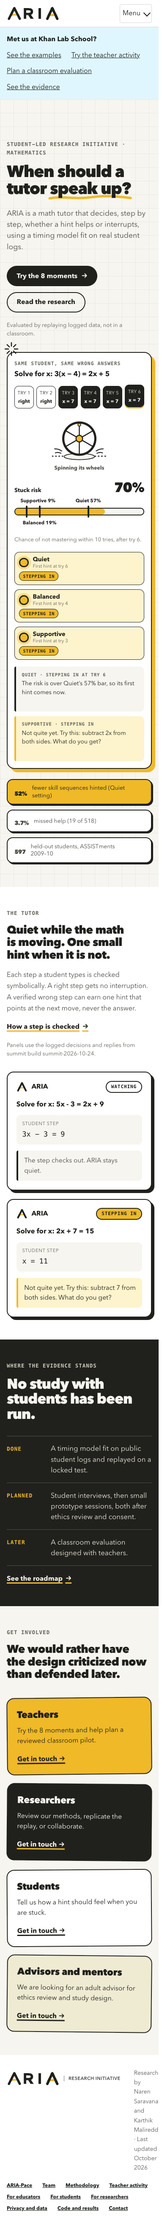
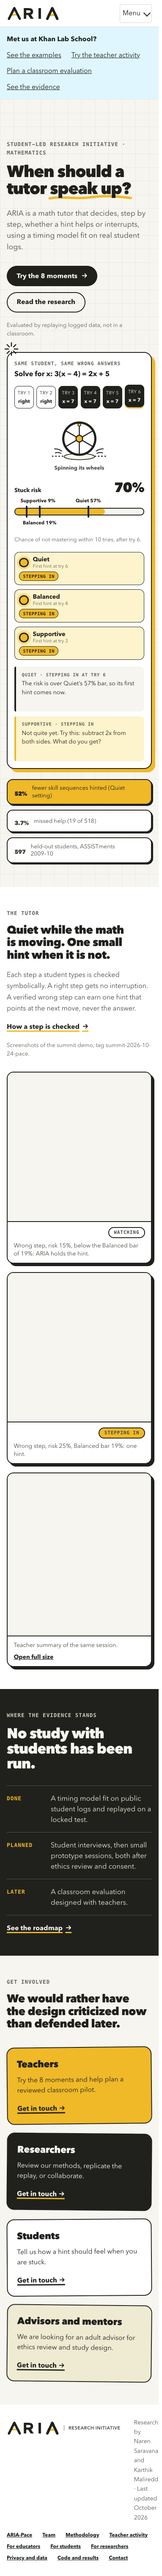
Use 46% for the third wrong step, real demo screenshots on Home, reword neural-model line

diff --git a/src/v2/HomePage.tsx b/src/v2/HomePage.tsx
@@ -1,5 +1,4 @@
 import { SitePage, SummitFollowUp } from "../AriaExperience";
-import { demoBuild, momentById } from "../demoMoments";
 import WheelExplainer from "./WheelExplainer";
 import { CountUp, Reveal } from "./motion";
 import { Doodle, Underline } from "./ui";
@@ -28,8 +27,6 @@ export function JoinCards({ compact = false }: { compact?: boolean }) {
 }
 
 export default function HomePage() {
-  const watching = momentById("M2");
-  const stepping = momentById("M8");
   return (
     <SitePage progress>
       <SummitFollowUp />
@@ -92,35 +89,23 @@ export default function HomePage() {
               <a className="textlink" href="/method">
                 How a step is checked <span aria-hidden="true">→</span>
               </a>
-              <p className="fineprint">Panels use the logged decisions and replies from summit build {demoBuild}.</p>
+              <p className="fineprint">Screenshots of the summit demo, tag summit-2026-10-24-pace.</p>
             </Reveal>
             <Reveal className="product__panels c-8" delay={80}>
-              <article className="panel panel--watch" aria-label="A step where ARIA stays quiet">
-                <header>
-                  <img src="/aria-symbol.svg" width="26" height="26" alt="" />
-                  <b>ARIA</b>
-                  <span className="state state--watch">Watching</span>
-                </header>
-                <p className="panel__problem">{watching.problem}</p>
-                <p className="panel__step">
-                  <small>Student step</small>
-                  {watching.turns[watching.turns.length - 1]}
-                </p>
-                <p className="panel__reply panel__reply--quiet">The step checks out. ARIA stays quiet.</p>
-              </article>
-              <article className="panel panel--step" aria-label="A step where ARIA steps in">
-                <header>
-                  <img src="/aria-symbol.svg" width="26" height="26" alt="" />
-                  <b>ARIA</b>
-                  <span className="state state--step">Stepping in</span>
-                </header>
-                <p className="panel__problem">{stepping.problem}</p>
-                <p className="panel__step">
-                  <small>Student step</small>
-                  {stepping.turns[stepping.turns.length - 1]}
-                </p>
-                <p className="panel__reply">{stepping.reply}</p>
-              </article>
+              <figure className="shot shot--watch">
+                <div className="shot__crop"><img src="/demo/03_watching.png" width={1280} height={1186} loading="lazy" alt="The ARIA demo in the Watching state: a wrong step at 15% risk, below the Balanced bar, so the hint is held." /></div>
+                <figcaption><span className="state state--watch">Watching</span> Wrong step, risk 15%, below the Balanced bar of 19%: ARIA holds the hint.</figcaption>
+              </figure>
+              <figure className="shot shot--step">
+                <div className="shot__crop"><img src="/demo/02_stepping_in.png" width={1280} height={1235} loading="lazy" alt="The ARIA demo in the Stepping in state: after wrong steps and a risk of 25%, the Balanced setting gives a hint." /></div>
+                <figcaption><span className="state state--step">Stepping in</span> Wrong step, risk 25%, Balanced bar 19%: one hint.</figcaption>
+              </figure>
+              <figure className="shot shot--teacher">
+                <div className="shot__crop"><img src="/demo/05_teacher_summary.png" width={1280} height={1484} loading="lazy" alt="The teacher summary tab: a timeline of each turn, where the student got stuck, and the hints given." /></div>
+                <figcaption>
+                  Teacher summary of the same session. <a href="/demo/05_teacher_summary.png">Open full size</a>
+                </figcaption>
+              </figure>
             </Reveal>
           </div>
         </section>

diff --git a/src/hallmark.css b/src/hallmark.css
@@ -1737,7 +1737,7 @@ tbody tr:last-child td {
 }
 
 .methodology-wordmark {
-  font-size: var(--text-lg);
+  font-size: var(--text-md);
   font-weight: 750;
   letter-spacing: -0.04em;
   text-decoration: none;
@@ -1772,15 +1772,15 @@ tbody tr:last-child td {
 }
 
 .methodology-hero h1 {
-  max-width: 12ch;
-  font-size: clamp(3rem, 7vw, 6rem);
+  max-width: 18ch;
+  font-size: clamp(2.1rem, 3.6vw, 3.25rem);
 }
 
 .methodology-hero > p {
   max-width: 62ch;
   margin: 0;
   color: var(--color-ink-2);
-  font-size: var(--text-lg);
+  font-size: var(--text-md);
 }
 
 .methodology-status {
@@ -1811,7 +1811,7 @@ tbody tr:last-child td {
 
 .methodology-status strong {
   margin-block: var(--space-2xl) var(--space-md);
-  font-size: var(--text-xl);
+  font-size: var(--text-lg);
   line-height: 1.2;
 }
 
@@ -1827,14 +1827,14 @@ tbody tr:last-child td {
 .methodology-section > h2,
 .methodology-limitations h2,
 .methodology-next h2 {
-  max-width: 20ch;
-  font-size: clamp(2rem, 4vw, 3.5rem);
+  max-width: 26ch;
+  font-size: clamp(1.55rem, 2.4vw, 2.1rem);
 }
 
 .methodology-section > p:not(.kicker) {
   max-width: 70ch;
   color: var(--color-ink-2);
-  font-size: var(--text-md);
+  font-size: var(--text-base);
 }
 
 .methodology-process {
@@ -1861,7 +1861,7 @@ tbody tr:last-child td {
 
 .methodology-process h3 {
   margin-block-end: var(--space-xs);
-  font-size: var(--text-lg);
+  font-size: var(--text-md);
 }
 
 .methodology-process p {
@@ -1895,14 +1895,14 @@ tbody tr:last-child td {
 .methodology-result-grid strong {
   display: block;
   margin-block-end: var(--space-lg);
-  font-size: clamp(2.5rem, 5vw, 4.5rem);
+  font-size: clamp(1.85rem, 3vw, 2.6rem);
   letter-spacing: -0.06em;
   line-height: 0.9;
 }
 
 .methodology-result-grid h3 {
   margin-block-end: var(--space-sm);
-  font-size: var(--text-md);
+  font-size: var(--text-base);
 }
 
 .methodology-result-grid p {
@@ -1983,7 +1983,7 @@ tbody tr:last-child td {
   align-self: end;
   margin: 0;
   color: color-mix(in oklch, var(--color-on-dark) 78%, var(--color-ink));
-  font-size: var(--text-md);
+  font-size: var(--text-base);
 }
 
 .methodology-footer {

diff --git a/src/v2/v2.css b/src/v2/v2.css
@@ -715,3 +715,20 @@
   .we__reply { opacity: 1; }
   html { scroll-behavior: auto; }
 }
+
+/* ---------------------------------------------------------------- real demo screenshots on Home */
+.shot { margin: 0; background: var(--v2-white); border: 2px solid var(--v2-ink); border-radius: 16px; box-shadow: 6px 6px 0 var(--v2-ink); overflow: hidden; transition: transform 220ms var(--v2-ease), box-shadow 220ms var(--v2-ease); }
+.shot__crop { position: relative; height: 22rem; overflow: hidden; border-bottom: 2px solid var(--v2-ink); background: var(--v2-warm); }
+.shot__crop img { position: absolute; left: 0; top: 0; display: block; width: var(--zoom, 100%); max-width: none; height: auto; transform: translate(var(--tx, 0), var(--ty, 0)); }
+.shot--watch, .shot--step { --zoom: 165%; --tx: -2%; --ty: -33%; }
+.shot--teacher .shot__crop { height: 24rem; }
+.shot--teacher { --zoom: 100%; --tx: 0; --ty: -26%; }
+.shot figcaption { display: flex; flex-wrap: wrap; align-items: center; gap: 0.5rem 0.7rem; padding: 0.7rem 0.9rem; font-size: 0.88rem; line-height: 1.4; color: var(--v2-ink-2); }
+.shot figcaption a { font-weight: 700; color: var(--v2-ink); }
+.shot:hover { transform: translate(-2px, -3px); box-shadow: 9px 9px 0 var(--v2-ink); }
+@media (min-width: 62rem) {
+  .shot--watch { grid-column: 1 / span 6; grid-row: 1; transform: rotate(-1.2deg); }
+  .shot--step { grid-column: 7 / span 6; grid-row: 1; margin-top: 4rem; transform: rotate(1.3deg); z-index: 2; }
+  .shot--teacher { grid-column: 2 / span 10; grid-row: 2; margin-top: 3rem; }
+  .shot--watch:hover, .shot--step:hover { transform: translate(-2px, -3px) rotate(0deg); }
+}

diff --git a/src/v2/Figures.tsx b/src/v2/Figures.tsx
@@ -106,7 +106,7 @@ export function TradeoffFigure() {
 }
 
 /* ------------------------------------------------------------------------------------------------
- * Figure 2. Same student, tries 1-6. Stuck risk 15 / 25 / 47 / 70% at tries 3-6, thresholds 57 / 19 / 9%,
+ * Figure 2. Same student, tries 1-6. Stuck risk 15 / 25 / 46 / 70% at tries 3-6, thresholds 57 / 19 / 9%,
  * first hints at try 6 / 4 / 3. Source: docs/DEMO_RUNBOOK.md section 6 and the ARIA poster; thresholds from frozen_val.json.
  * ---------------------------------------------------------------------------------------------- */
 export function TimelineFigure() {
@@ -126,7 +126,7 @@ export function TimelineFigure() {
     <svg className="fig" viewBox={`0 0 ${W} ${H}`} role="img" aria-labelledby="fig2-t fig2-d">
       <title id="fig2-t">One student, six tries, three settings</title>
       <desc id="fig2-d">
-        Tries 1 and 2 are right. Tries 3 to 6 are wrong, and the stuck risk is 15, 25, 47 and 70 percent. Supportive (threshold 9%) gives its
+        Tries 1 and 2 are right. Tries 3 to 6 are wrong, and the stuck risk is 15, 25, 46 and 70 percent. Supportive (threshold 9%) gives its
         first hint at try 3, Balanced (19%) at try 4, and Quiet (57%) at try 6.
       </desc>
       {/* answers */}

diff --git a/src/v2/PacePage.tsx b/src/v2/PacePage.tsx
@@ -214,7 +214,7 @@ export default function PacePage() {
                 <div className="split">
                   <Reveal>
                     <p className="prose">
-                      The risk model is Bayesian Knowledge Tracing (BKT), fitted per skill on the training students with a pooled fallback for skills it has not seen. Stuck risk is the calibrated probability of not mastering the skill by try 10. We also trained neural sequence models; none improved the stuck ranking, so BKT stayed.
+                      The risk model is Bayesian Knowledge Tracing (BKT), fitted per skill on the training students with a pooled fallback for skills it has not seen. Stuck risk is the calibrated probability of not mastering the skill by try 10. Deep-learning models (DKT, SAKT) did not beat BKT at predicting stuck sequences (aria_pace/RESULTS_v3.md:8), so BKT stayed.
                     </p>
                   </Reveal>
                   <Reveal delay={80}>

diff --git a/src/v2/paceData.ts b/src/v2/paceData.ts
@@ -79,14 +79,14 @@ export const baselinesQuiet: Baseline[] = [
 ];
 
 // RB:141, RB:150 and the ARIA poster (same student, tries 3-6). Tries 1-2 are correct steps.
-// Third wrong step: poster and brief say 47%; DEMO_RUNBOOK.md:141 says 46%. See PR notes.
+// Third wrong step reads 46% (DEMO_RUNBOOK.md:141; agent/demo_pace.py at tag summit-2026-10-24 gives 0.46499). The poster shows 47%.
 export const timeline = {
   tries: [
     { n: 1, answer: "right", risk: null as number | null },
     { n: 2, answer: "right", risk: null },
     { n: 3, answer: "wrong", risk: 15 },
     { n: 4, answer: "wrong", risk: 25 },
-    { n: 5, answer: "wrong", risk: 47 },
+    { n: 5, answer: "wrong", risk: 46 },
     { n: 6, answer: "wrong", risk: 70 },
   ],
   firstHint: { supportive: 3, balanced: 4, quiet: 6 } as Record<SettingId, number>,

diff --git a/src/v2/WheelExplainer.tsx b/src/v2/WheelExplainer.tsx
@@ -157,7 +157,7 @@ export default function WheelExplainer() {
       </div>
 
       <p className="sr-only">
-        With the real example values: after the third try the stuck risk is 15%, then 25%, 47% and 70% at tries 4, 5 and 6.
+        With the real example values: after the third try the stuck risk is 15%, then 25%, 46% and 70% at tries 4, 5 and 6.
         Supportive gives its first hint at try 3, Balanced at try 4 and Quiet at try 6. When Quiet holds the hint it says:
         {" " + replies.quietHolds} When Supportive hints it says: {replies.supportiveHints}
       </p>
